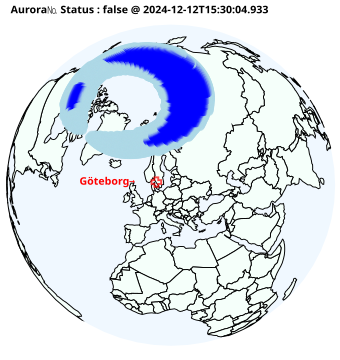
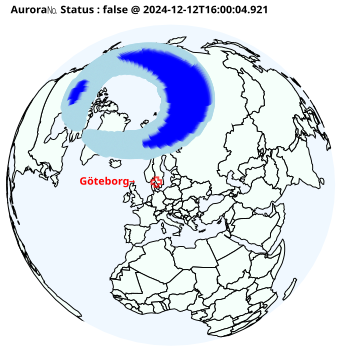
20241212160018 added aur.html

diff --git a/aur.html b/aur.html
@@ -7,6 +7,6 @@
 <body>
     <h1>Aurora Watch</h1>
     <img src="a.png" alt="Aurora Image" style="width:100%;max-width:600px;">
-    <p>Aurora Level 🌌= (0.0) was observed. (2024-12-12T15:30:04.933)</p>
+    <p>Aurora Level 🌌= (0.0) was observed. (2024-12-12T16:00:04.921)</p>
 </body>
 </html>
